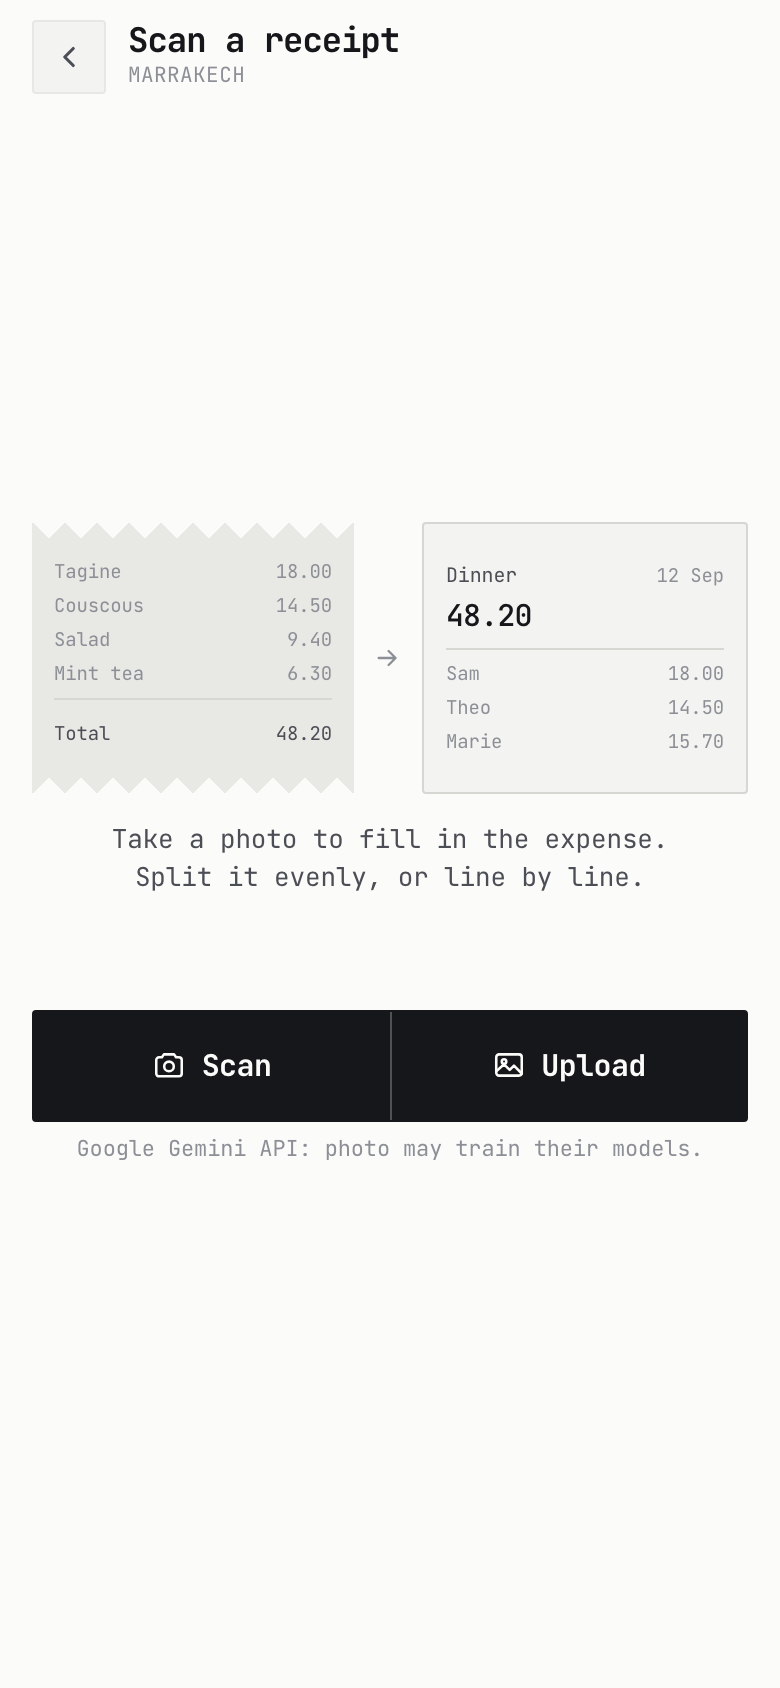
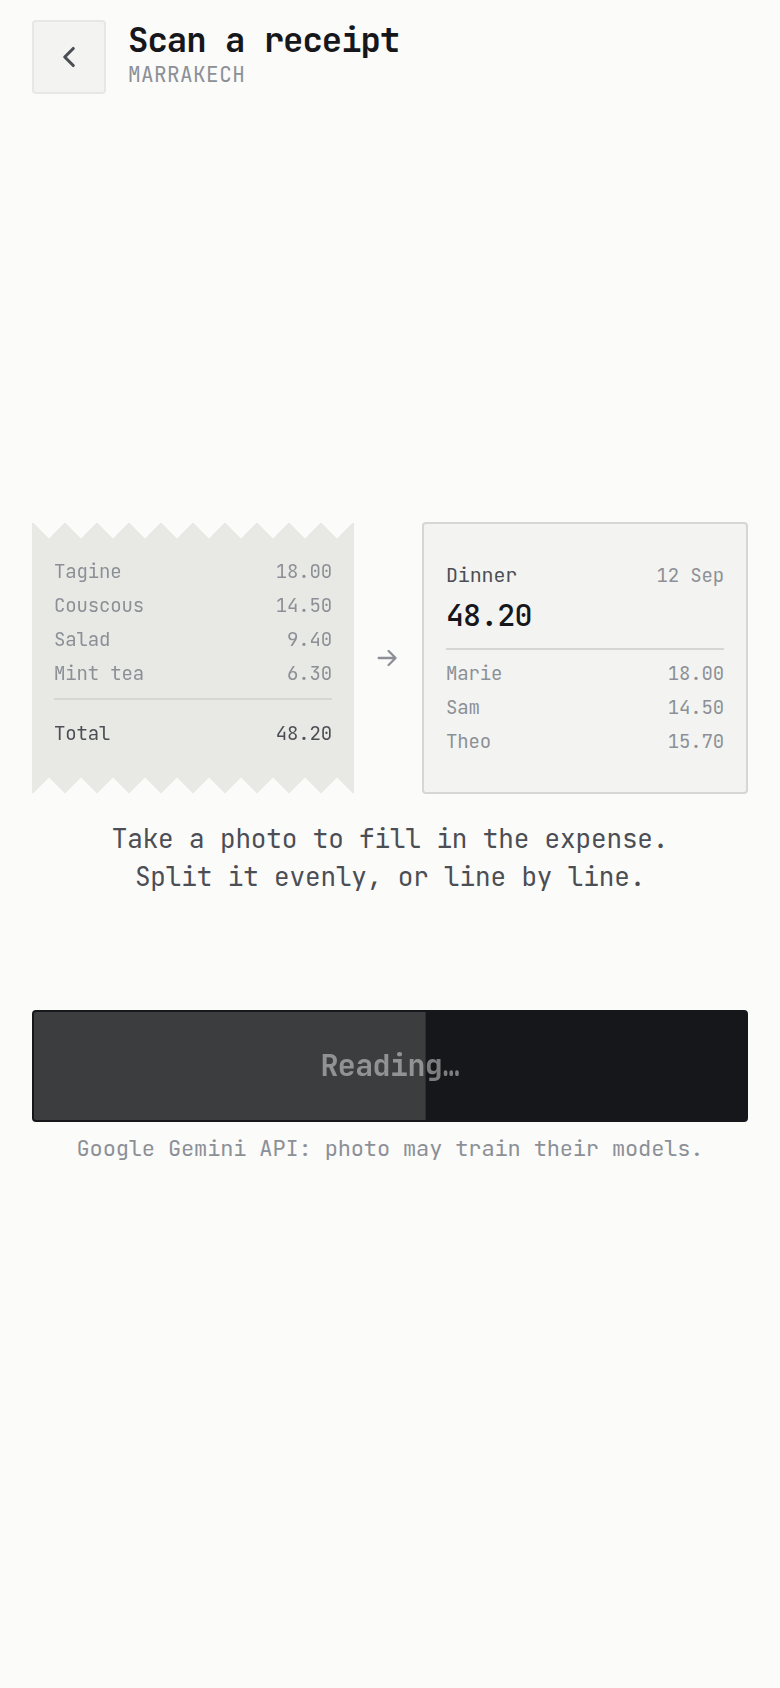
docs: two rows of three in the README, the second one the receipt
The row of four showed the ledger, balances, a split and the scan screen —
three of them the app a Tricount user already has. The bottom row is now the
part they came for: a scan mid-read, the who-had-what grid with a dinner tapped
into it, and the saved expense read back line by line.

`readme-shots` grows the three shots behind that: the scan's request is routed
into a hole and its bar paused at a fixed progress, so the "Reading…" fraction
is the same picture every run rather than whatever a sleep caught. The seeded
dirham row is renamed off "Café Clock", which the scanned bill now owns.

Claude-Session: https://claude.ai/code/session_014zyNq6mgL6F8t2Ej3t4Gg2

diff --git a/docs/testing.md b/docs/testing.md
@@ -12,7 +12,7 @@ pnpm offline      # just every screen with the network cut
 pnpm stall        # what a screen does when reading this phone's database stops working
 pnpm homescreen   # the invite an iOS icon is added with, both ends of it
 pnpm shots        # PNGs into shots/ (gitignored)
-pnpm readme-shots # the four pictures in README.md, into docs/media/ (committed)
+pnpm readme-shots # the six pictures in README.md, into docs/media/ (committed)
 pnpm drive        # drive the app as text — [drive.md](drive.md)
 pnpm run docs     # links resolve, ADRs indexed, claude_corner within size, ~30ms
 pnpm run rules    # core is still pure, no browser dialogs crept back, ~30ms
@@ -186,14 +186,22 @@ instruction, [standing-instructions](standing-instructions.md#workflow).
 Chromium is at `/opt/pw-browsers/chromium` (override with `CHROMIUM_PATH`);
 `playwright-core` is a root devDependency. Never run `playwright install`.
 
-## `pnpm readme-shots` — the four pictures in the README
+## `pnpm readme-shots` — the six pictures in the README
 
 `scripts/readme-shots.mjs` walks the same UI with the opposite brief. `shots`
 leans on states worth catching — a split that doesn't add up, a payer who
 overpaid, a server that can't be reached; a stranger deciding whether to open
 the app should see none of those, so this one seeds a trip that adds up in
-prices a person might actually pay, and photographs the ledger, balances, a
-split that balances, and the scan screen.
+prices a person might actually pay, and photographs two rows of three: the app
+a Tricount user already expects (ledger, balances, adding an expense) over the
+part they came for (a scan mid-read, the who-had-what grid, and the saved
+expense read back line by line).
+
+The scan's bar is a CSS animation on a wall clock, so `waitForTimeout` would
+photograph a different fraction on every machine: the request is routed into a
+hole and the animation is paused at a fixed progress instead (`freezeScanBar`).
+The two after it need a scan that *answers*, which is `stubScan` and the same
+canned bill `pnpm drive` uses.
 
 Two differences that are the whole reason it is a second script:
 
@@ -204,7 +212,7 @@ Two differences that are the whole reason it is a second script:
   timeout.
 - **Its output is committed.** `shots/` is gitignored, so a README cannot point
   at it; `docs/media/` is not. Re-run and commit what moves when one of the
-  four screens changes.
+  six screens changes.
 
 ### Gotchas
 

diff --git a/docs/claude_corner.md b/docs/claude_corner.md
@@ -69,6 +69,8 @@ oldest in the same edit — and before it goes, ask what it taught: if the lesso
 has gone general, fold it into a paragraph above by editing a sentence rather
 than adding one. Most don't earn that, and letting one go is the normal ending.*
 
+- *2026-09-18* — "two rows of 3", then six screens named in order: the ask was
+  already the layout. Shoot the list as given rather than curating a nicer six.
 - *2026-09-18* — "remove those rows" also orphaned a prop and a copy key. A
   deletion is finished when what it stranded is gone too: grep the name you
   just stopped using.
@@ -96,5 +98,3 @@ than adding one. Most don't earn that, and letting one go is the normal ending.*
 - *2026-09-17* — "Eleven authorities, seven pieces of state" counted a symptom
   and read as a verdict; three were real. Check your own premise before the
   owner has to.
-- *2026-09-17* — The check stayed green with the thing it guarded switched off.
-  Break it on purpose and watch the red, or the green is decoration.

diff --git a/README.md b/README.md
@@ -17,10 +17,14 @@
 
 <table>
 <tr>
-<td width="25%"><img src="docs/media/ledger.png" alt=""></td>
-<td width="25%"><img src="docs/media/balances.png" alt=""></td>
-<td width="25%"><img src="docs/media/split.png" alt=""></td>
-<td width="25%"><img src="docs/media/scan.png" alt=""></td>
+<td width="33%"><img src="docs/media/ledger.png" alt=""></td>
+<td width="33%"><img src="docs/media/balances.png" alt=""></td>
+<td width="33%"><img src="docs/media/expense.png" alt=""></td>
+</tr>
+<tr>
+<td width="33%"><img src="docs/media/scan.png" alt=""></td>
+<td width="33%"><img src="docs/media/items.png" alt=""></td>
+<td width="33%"><img src="docs/media/summary.png" alt=""></td>
 </tr>
 </table>
 
